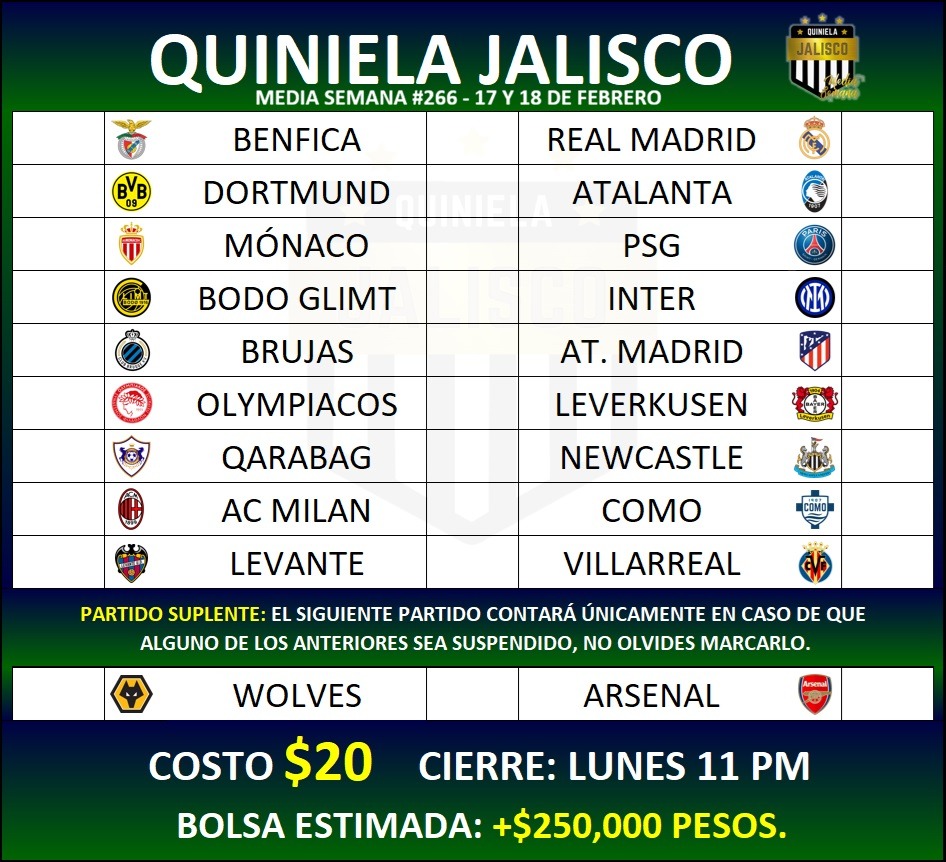
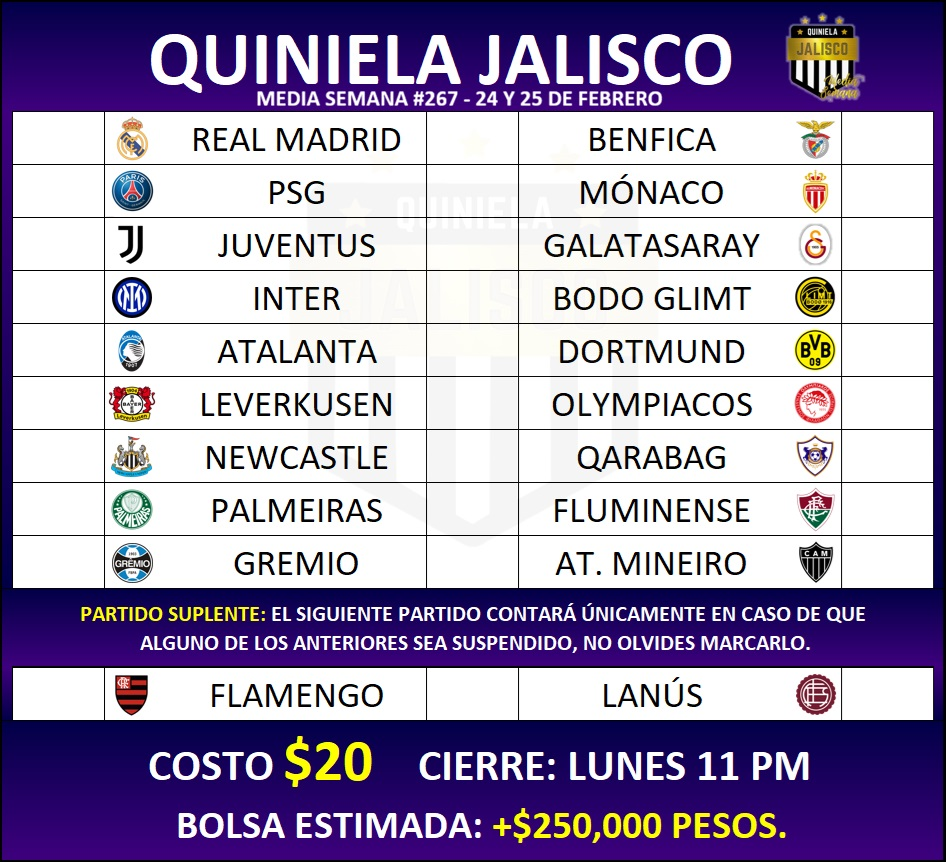
ojdf

diff --git a/MediaSemana/stylesmSusp.css b/MediaSemana/stylesmSusp.css
@@ -94,8 +94,8 @@ body{
     margin-top: 9%;
     border: solid 1px black;
     border-radius: 0 0 14px 14px;
-    background: -webkit-linear-gradient(0.49turn, rgb(0,75,20) -7%, rgb(0 6 82) 80%);
-    background: linear-gradient(0.49turn, rgb(0,75,20) -7%, rgb(0 6 82) 80%);
+    background: -webkit-linear-gradient(0.49turn, rgb(45,0,100) -7%, rgb(0 6 82) 80%);
+    background: linear-gradient(0.49turn, rgb(45,0,100) -7%, rgb(0 6 82) 80%);
 }
 
 .text-lg{
